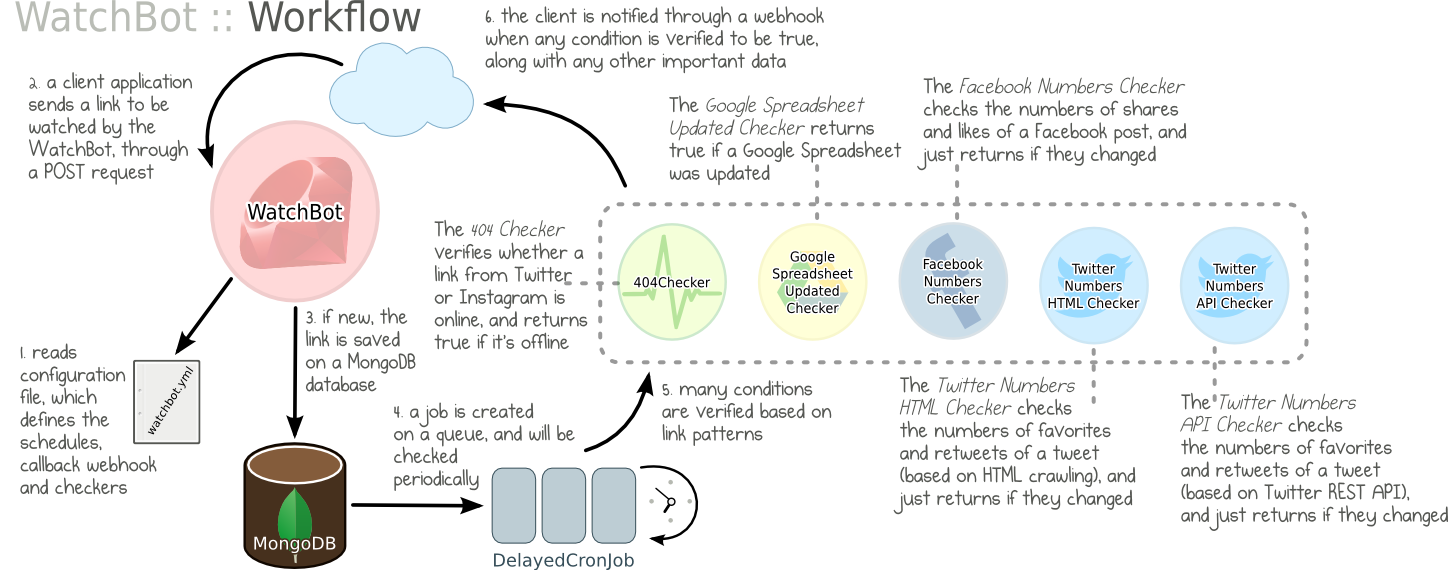
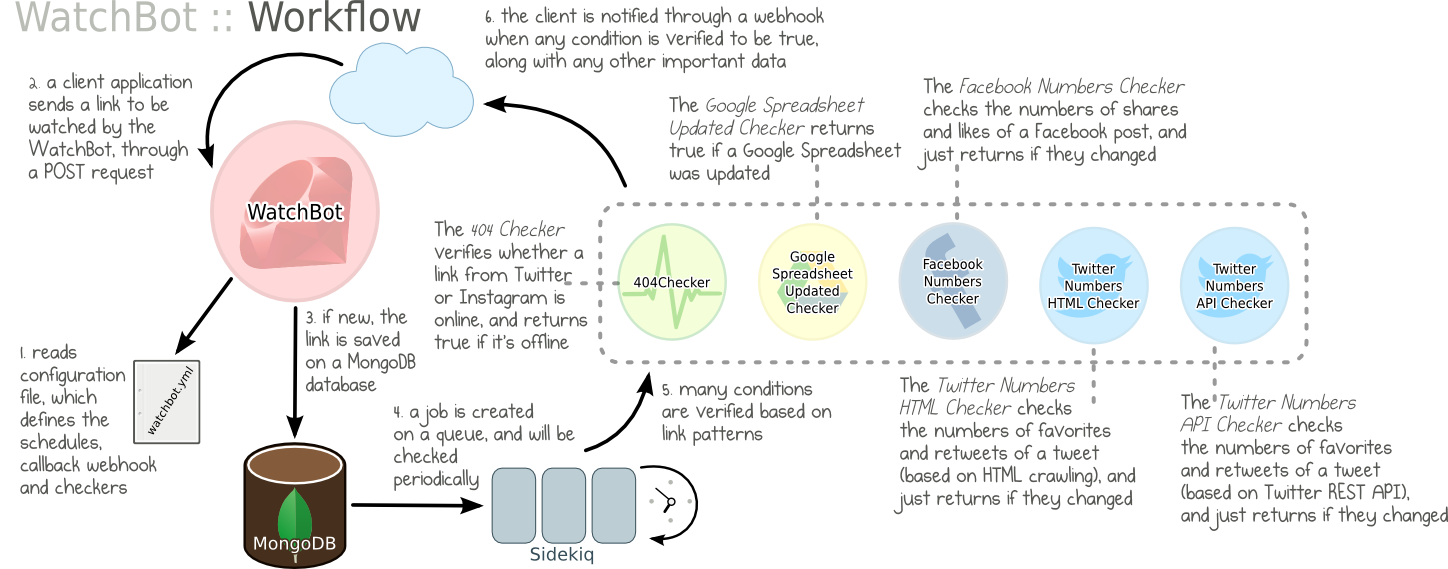
Ticket #4226: Part 1/2 - Replacing Delayed Job by Sidekiq and migrating to Rails 4.2.0 (tests missing but documentation updated)

diff --git a/app/models/link.rb b/app/models/link.rb
@@ -18,8 +18,7 @@ class Link
   validates :application, presence: true, inclusion: { in: WATCHBOT_CONFIG.keys }
 
   after_create :start_watching
-
-  belongs_to :delayed_job, autosave: true, validate: true, dependent: :destroy, class_name: 'Delayed::Job'
+  after_destroy :stop_watching
 
   def calculate_cron
     cron = nil
@@ -32,7 +31,7 @@ class Link
 
   def check
     get_config('conditions').each do |condition|
-      if !self.deleted? && self.match_condition(condition)
+      if !self.destroyed? && self.match_condition(condition)
         name = condition['condition']
         output = send(name)
         if output 
@@ -41,7 +40,7 @@ class Link
         end
       end
     end
-    self.save unless self.deleted?
+    self.save unless self.destroyed?
   end
 
   def match_condition(condition)
@@ -63,17 +62,32 @@ class Link
     request['Content-Type'] = 'application/json'
     http.request(request)
   end
+    
+  def job_name
+    "link-#{self.id.to_s}-job"
+  end
 
   def job
-    self.delayed_job
+    Sidekiq::Cron::Job.find name: self.job_name
   end
-
-  private
 
   def start_watching
-    self.delayed_job = Delayed::Job.enqueue(WatchJob.new(self), cron: :calculate_cron)
-    self.save!
+    unless Sidekiq::Cron::Job.create(name: self.job_name, cron: self.calculate_cron, klass: 'WatchJob', args: [self.id.to_s])
+      self.destroy!
+      raise 'Could not schedule job'
+    end
   end
+
+  def restart_watching
+    self.stop_watching
+    self.start_watching
+  end
+
+  def stop_watching
+    Sidekiq::Cron::Job.destroy self.job_name
+  end
+  
+  private
 
   def get_config(key)
     raise "Application '#{self.application}' not found" unless WATCHBOT_CONFIG.has_key?(self.application)

diff --git a/lib/watch_job.rb b/lib/watch_job.rb
@@ -1,24 +1,29 @@
 require 'watchbot_memory'
 
-class WatchJob < Struct.new(:link)
-  def perform
-    link.check unless link.nil?
-  end
+class WatchJob
+  include Sidekiq::Worker
 
-  def queue_name
-    'watch_job'
-  end
-
-  def calculate_cron(job)
-    link.calculate_cron unless link.nil?
+  def perform(*args)
+    link = Link.where(id: args.first).last
+    unless link.nil?
+      link.check
+      cron = link.calculate_cron
+      if cron.nil?
+        link.stop_watching
+      elsif !link.job.nil? && cron != link.job.cron
+        link.restart_watching
+      end
+    end
+    self.after
   end
 
   def after
-    cmd = 'cd ' + Rails.root.to_s + ' && RAILS_ENV=production bin/delayed_job stop && RAILS_ENV=production bin/delayed_job start'
+    pid = Process.pid
+    cmd = "kill -USR1 #{pid} && kill -TERM #{pid} && kill -9 #{pid} && cd #{Rails.root} && RAILS_ENV=production bundle exec sidekiq -d"
     memory = Watchbot::Memory.value
-    limit = ENV['WATCHBOT_DELAYED_JOB_MEMORY_LIMIT'] || 1000000000
+    limit = ENV['WATCHBOT_BG_JOB_MEMORY_LIMIT'] || 1000000000
     if Rails.env === 'production' && memory >= limit.to_i
-      Delayed::Worker.logger.warn("Reached #{memory} bytes of memory, restarting...")
+      puts "Reached #{memory} bytes of memory, restarting..."
       Kernel.system(cmd)
     end
   end

diff --git a/config/environments/production.rb b/config/environments/production.rb
@@ -20,7 +20,7 @@ Watchbot::Application.configure do
   # config.action_dispatch.rack_cache = true
 
   # Disable Rails's static asset server (Apache or nginx will already do this).
-  config.serve_static_assets = false
+  config.serve_static_files = false
 
   # Compress JavaScripts and CSS.
   config.assets.js_compressor = :uglifier

diff --git a/README.md b/README.md
@@ -122,11 +122,12 @@ settings:
 ### Installation
 
 * Copy `config/mongoid.yml.example` to `config/mongoid.yml` and configure your database
+* Copy `config/sidekiq.yml.example` to `config/sidekiq.yml` and configure Sidekiq
 * Copy `config/initializers/errbit.rb.example` to `config/initializers/errbit.rb` and configure Errbit
 * Create the applications on `config/applications/<environment>` (check examples under `config/applications/example`)
-* Create delayed job indexes by running: `rails runner 'Delayed::Backend::Mongoid::Job.create_indexes'`
 * Install the gems: `bundle install`
 * Start the server
+* Start Sidekiq: `bundle exec sidekiq -d`
 
 ### Administrative tasks
 
